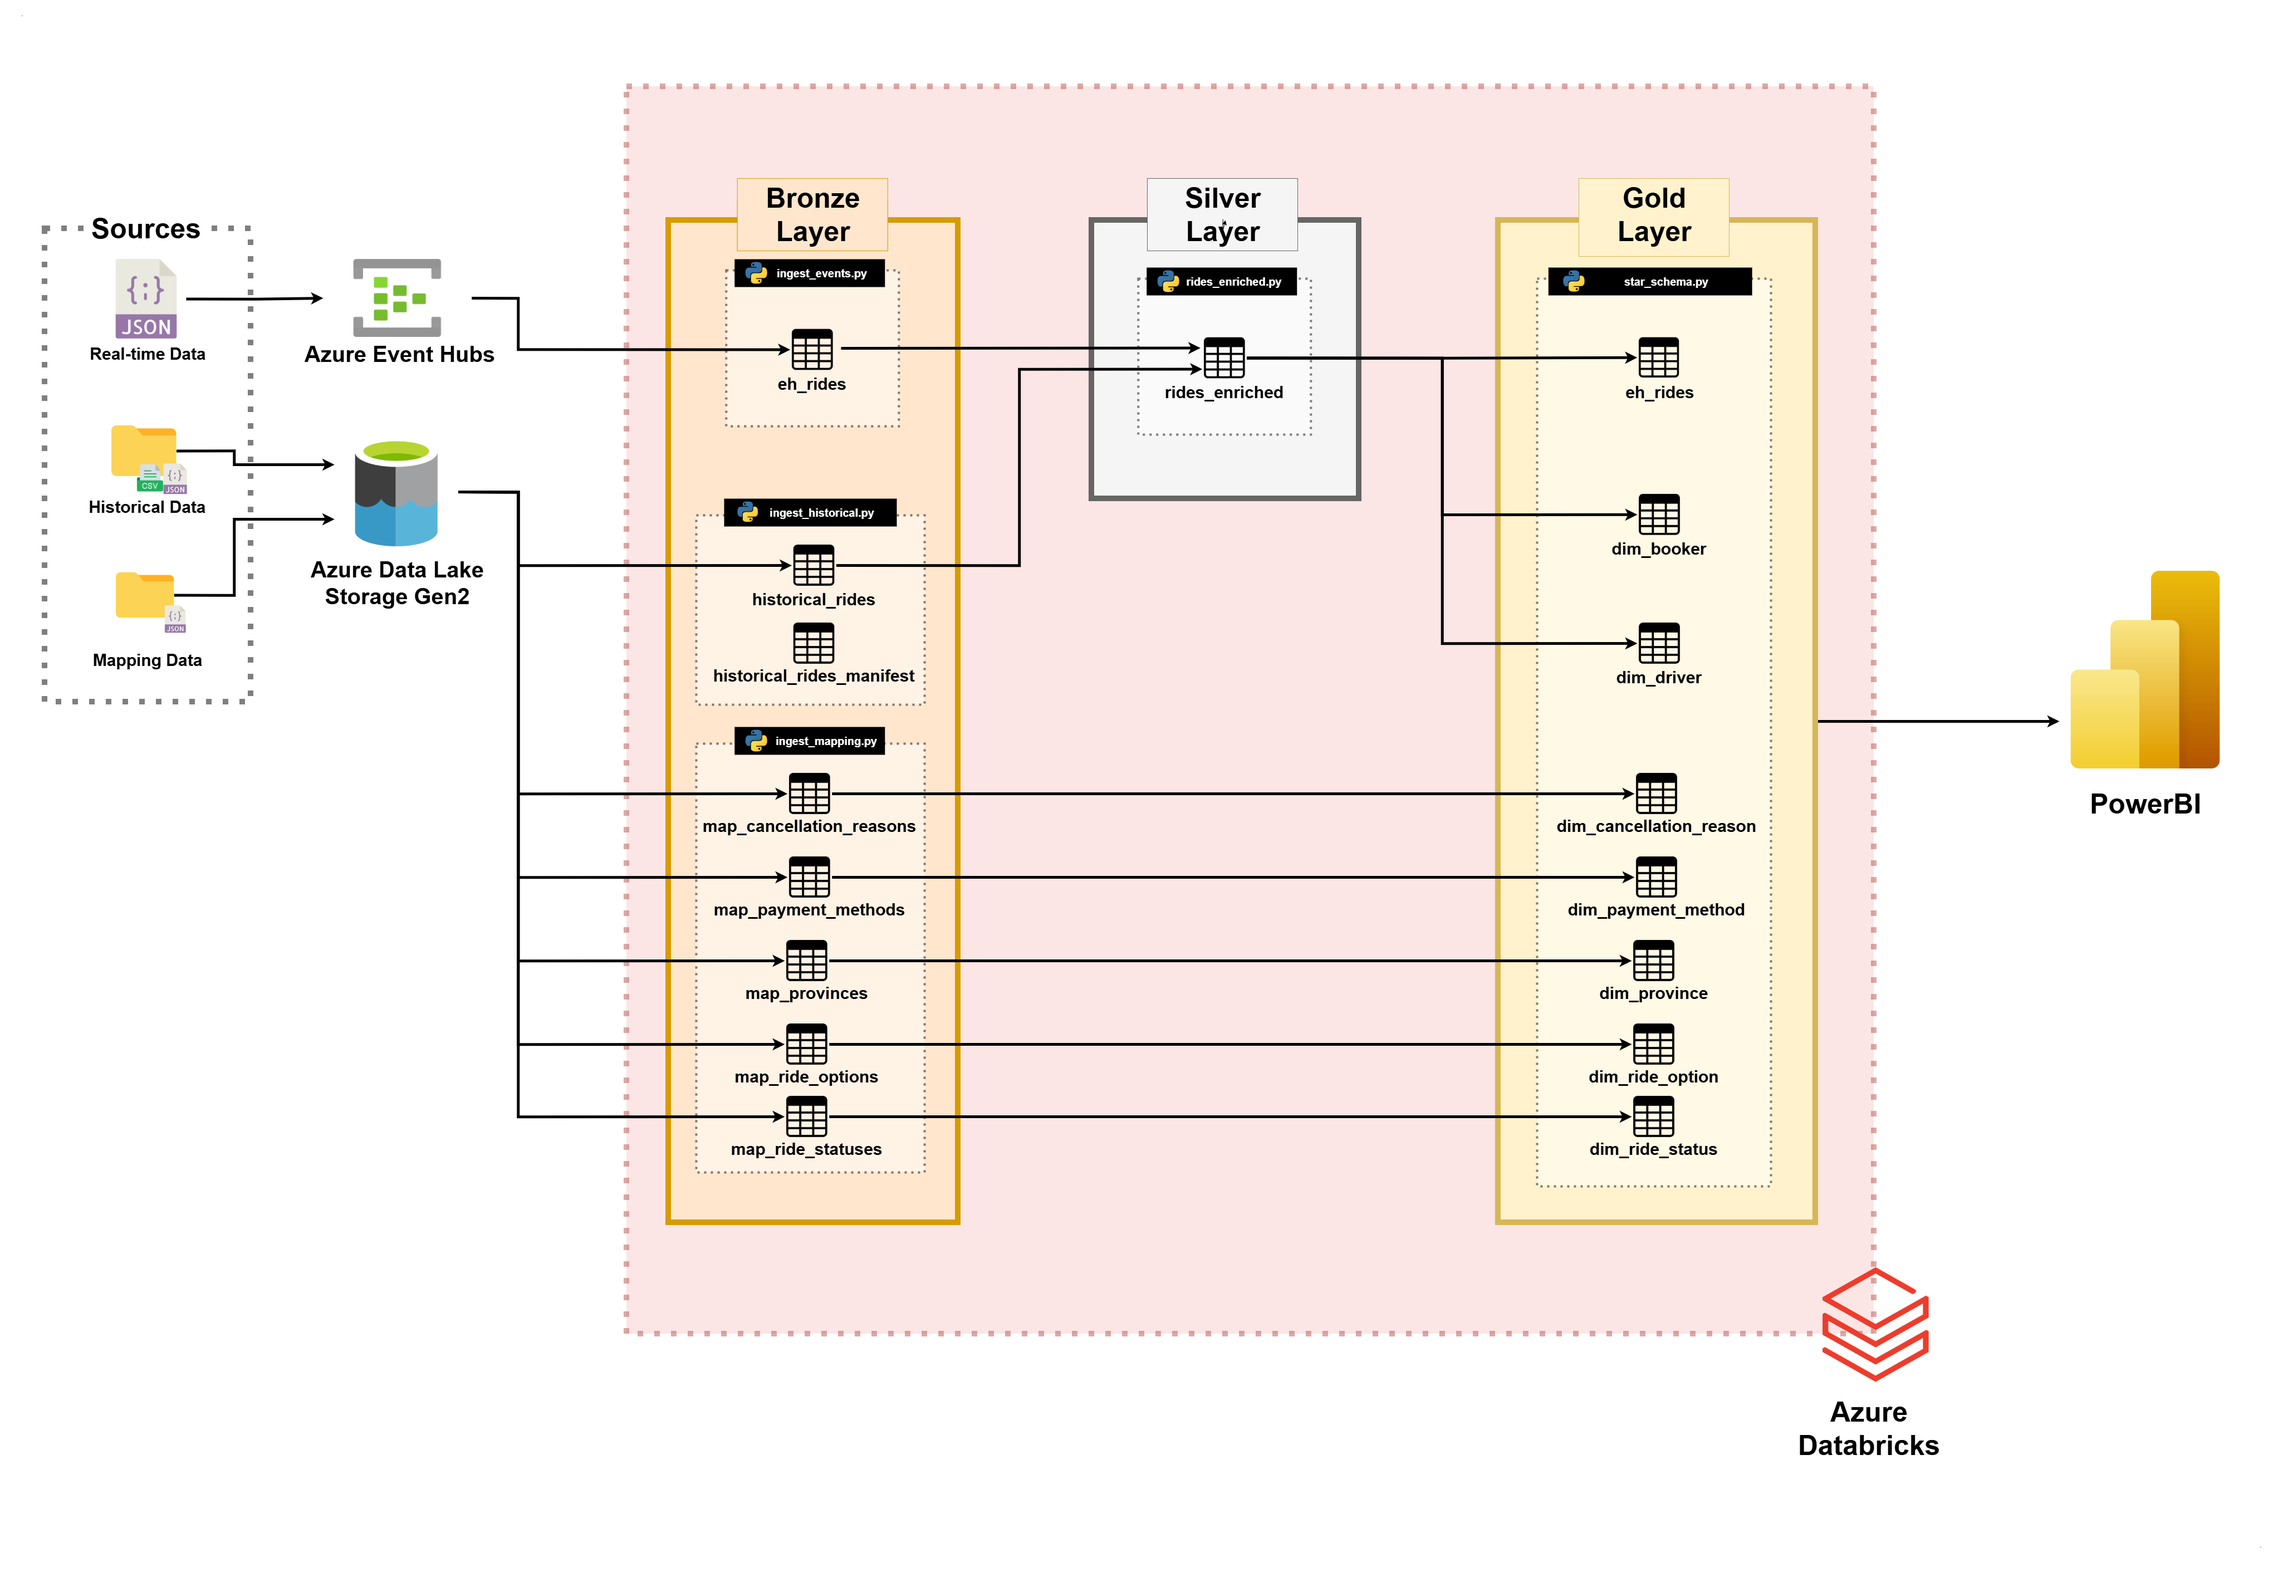
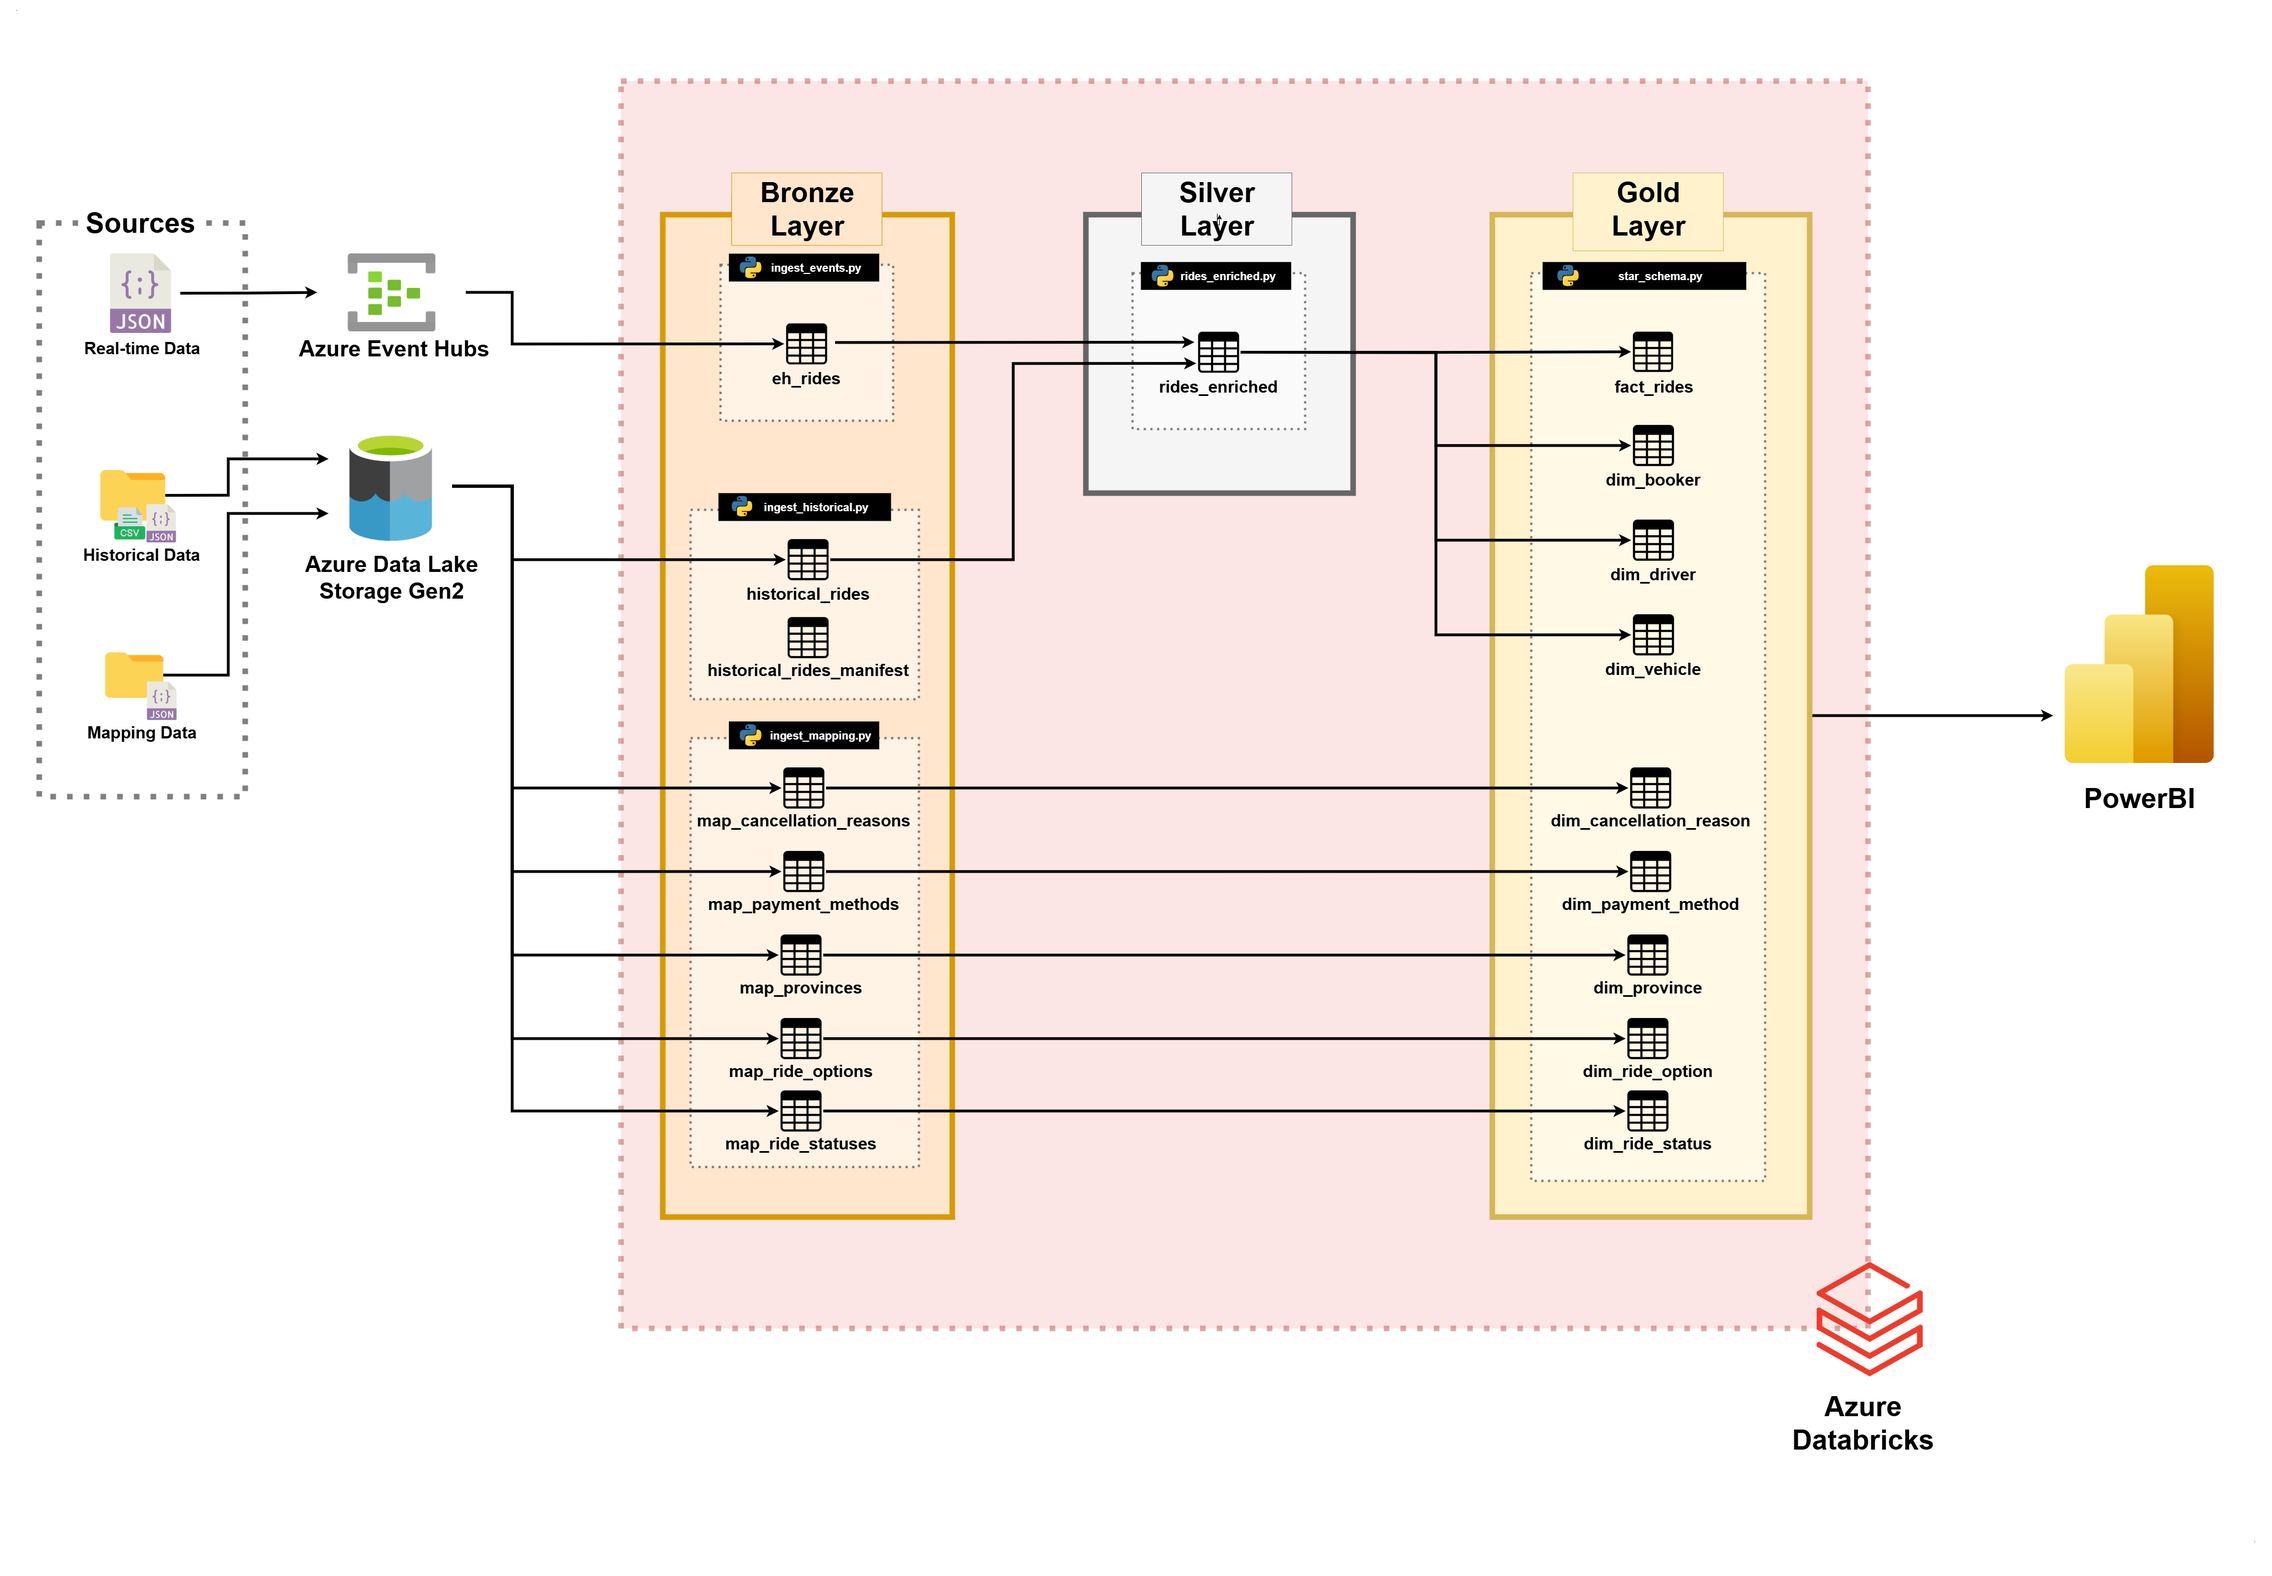
abc

diff --git a/README.md b/README.md
@@ -17,16 +17,6 @@ To better understand how modern data platforms automate these processes, I wante
 
 ## 📋 Table of Contents
 
-- [Architecture](#-architecture)
-- [Dashboard](#-dashboard)
-- [Data Generator](#-data-generator)
-- [Data Pipeline](#-data-pipeline--bronze--silver--gold)
-- [Data Structure](#-data-structure)
-- [Project Structure](#-project-structure)
-- [Skills Demonstrated](#-skills-demonstrated)
-- [Setup](#-setup)
-- [References](#-references)
-
 ---
 
 ## ⚙ Data Generator
@@ -55,29 +45,33 @@ Province, ride option, and payment method reference files are stored in the repo
 
 ---
 
-## 🔄 Data Pipeline Architcture
+## 🔄 Data Pipeline Architecture
 
-![Data Pipeline Architcture](docs/images/pipeline_architecture.png)
+![Data Pipeline Architecture](docs/images/pipeline_architecture.png)
+
+The data architecture for this project follows the Medallion Architecture with Bronze, Silver, and Gold layers.
 
 ### 🥉 Bronze — Raw Ingestion
 
-| Script | Source | Target | Description |
-|---|---|---|---|
-| `ingest_events.py` | Azure Event Hub | `bronze.eh_rides` | Real-time ride records via Kafka |
-| `ingest_historical.py` | ADLS CSV/JSON | `bronze.historical_rides` | Batch rides with manifest-based deduplication |
-| `ingest_mapping.py` | ADLS JSON | `bronze.map_*` | Provinces, ride options, payment methods |
+- **`ingest_events.py`** connects to Azure Event Hubs via Kafka and stores each message as a raw JSON string in `eh_rides` — parsing happens downstream in Silver.
+- **`ingest_historical.py`** creates a `historical_rides_manifest` table to track every loaded file by path and file size, so only new or replaced files are ever loaded.
+- **`ingest_mapping.py`** detects changes by hashing each row's content with SHA-256 and comparing it against the last known version in the target table — only new or changed rows are appended.
 
 ### 🥈 Silver — Enrichment & Privacy
 
-| Script | Source | Target | Transformations |
-|---|---|---|---|
-| `rides_enriched.py` | `bronze.eh_rides` + `bronze.historical_rides` | `silver.rides_enriched` | Cast timestamps · Hash PII with SHA-256 |
+- **`rides_enriched.py`** merges `eh_rides` and `historical_rides` into a single unified table, casts timestamp strings to proper `TIMESTAMP` types, and replaces 7 PII fields (names, emails, phones, license numbers) with SHA-256 hashes.
 
-**PII fields hashed:** `booker_name`, `booker_email`, `booker_phone`, `driver_name`, `driver_phone`, `driver_license`, `vehicle_license_plate`
+> There is no data cleansing in this layer because the data generator always produces clean, well-formed records. In a real-world pipeline this is where null handling, deduplication, and format validation would live.
 
 ### 🥇 Gold — Star Schema
 
 ![Star Schema](docs/images/star_schema.png)
+
+- **`star_schema.py`** builds the full star schema from `rides_enriched` and the bronze mapping tables.
+- **`dim_booker`, `dim_driver`, `dim_vehicle`** are SCD Type 1 — always reflects the latest value, no history kept.
+- **`dim_ride_option`, `dim_payment_method`** are SCD Type 2 — full history is kept so old rides always link to the correct version at the time of booking.
+- **`dim_province`, `dim_ride_status`, `dim_cancellation_reason`** are static reference tables loaded directly from bronze.
+- **`fact_rides`** stores one row per ride with all foreign keys, timestamps, fare breakdown, distance, duration, and ratings.
 
 ---
 
